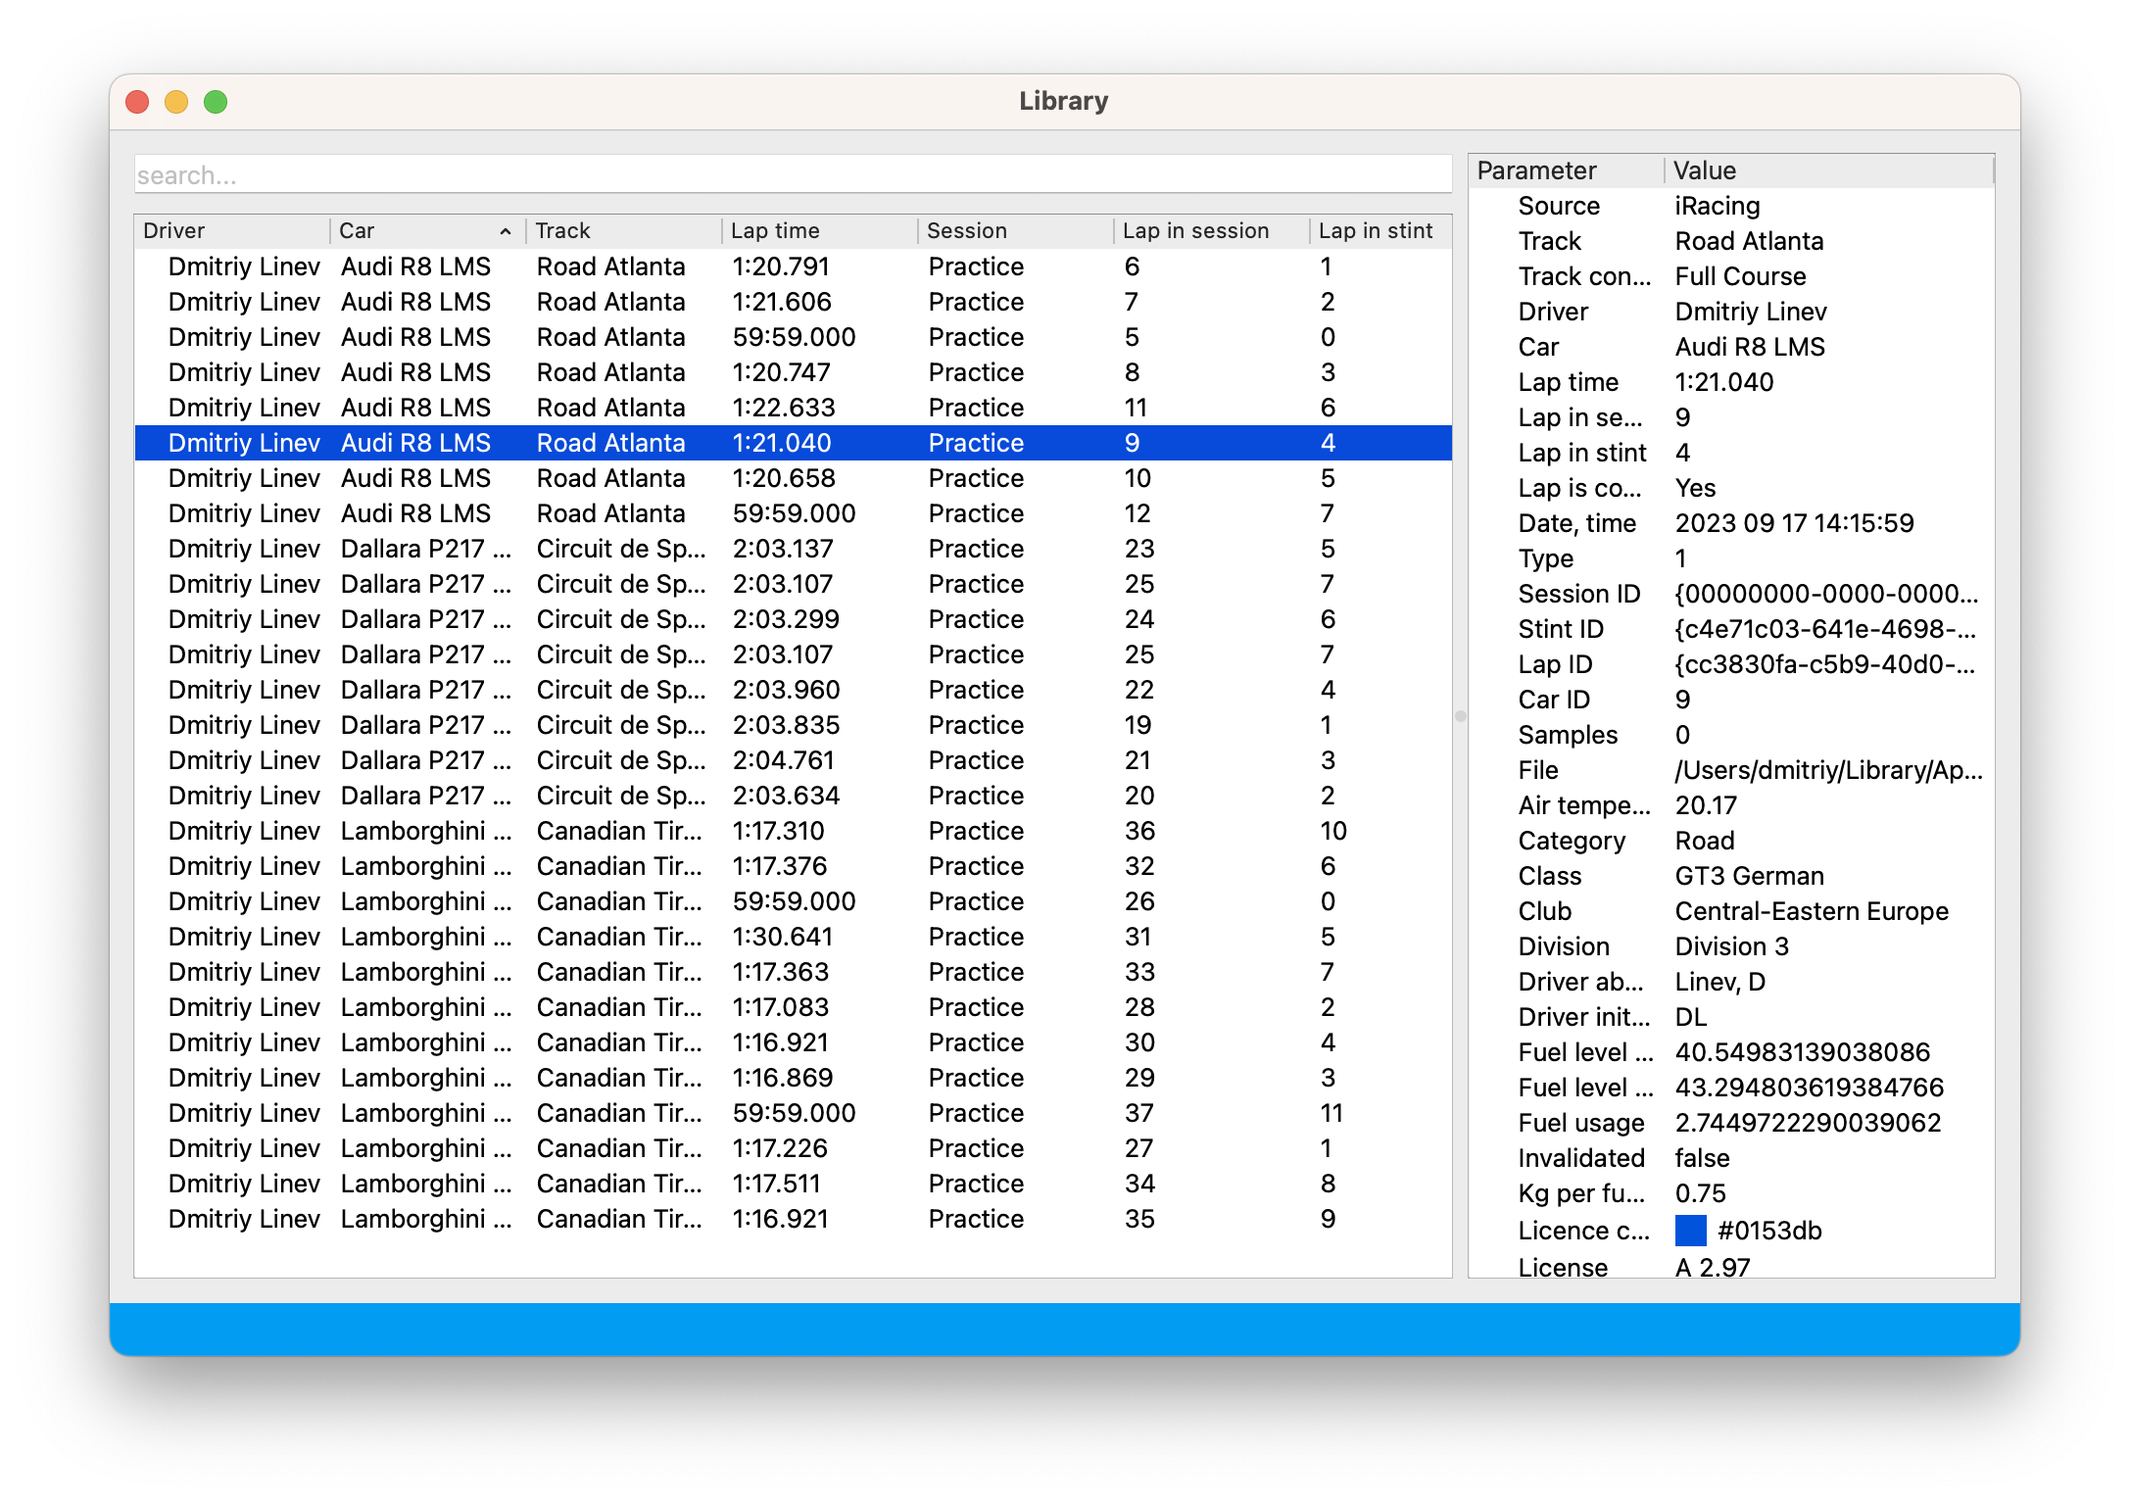
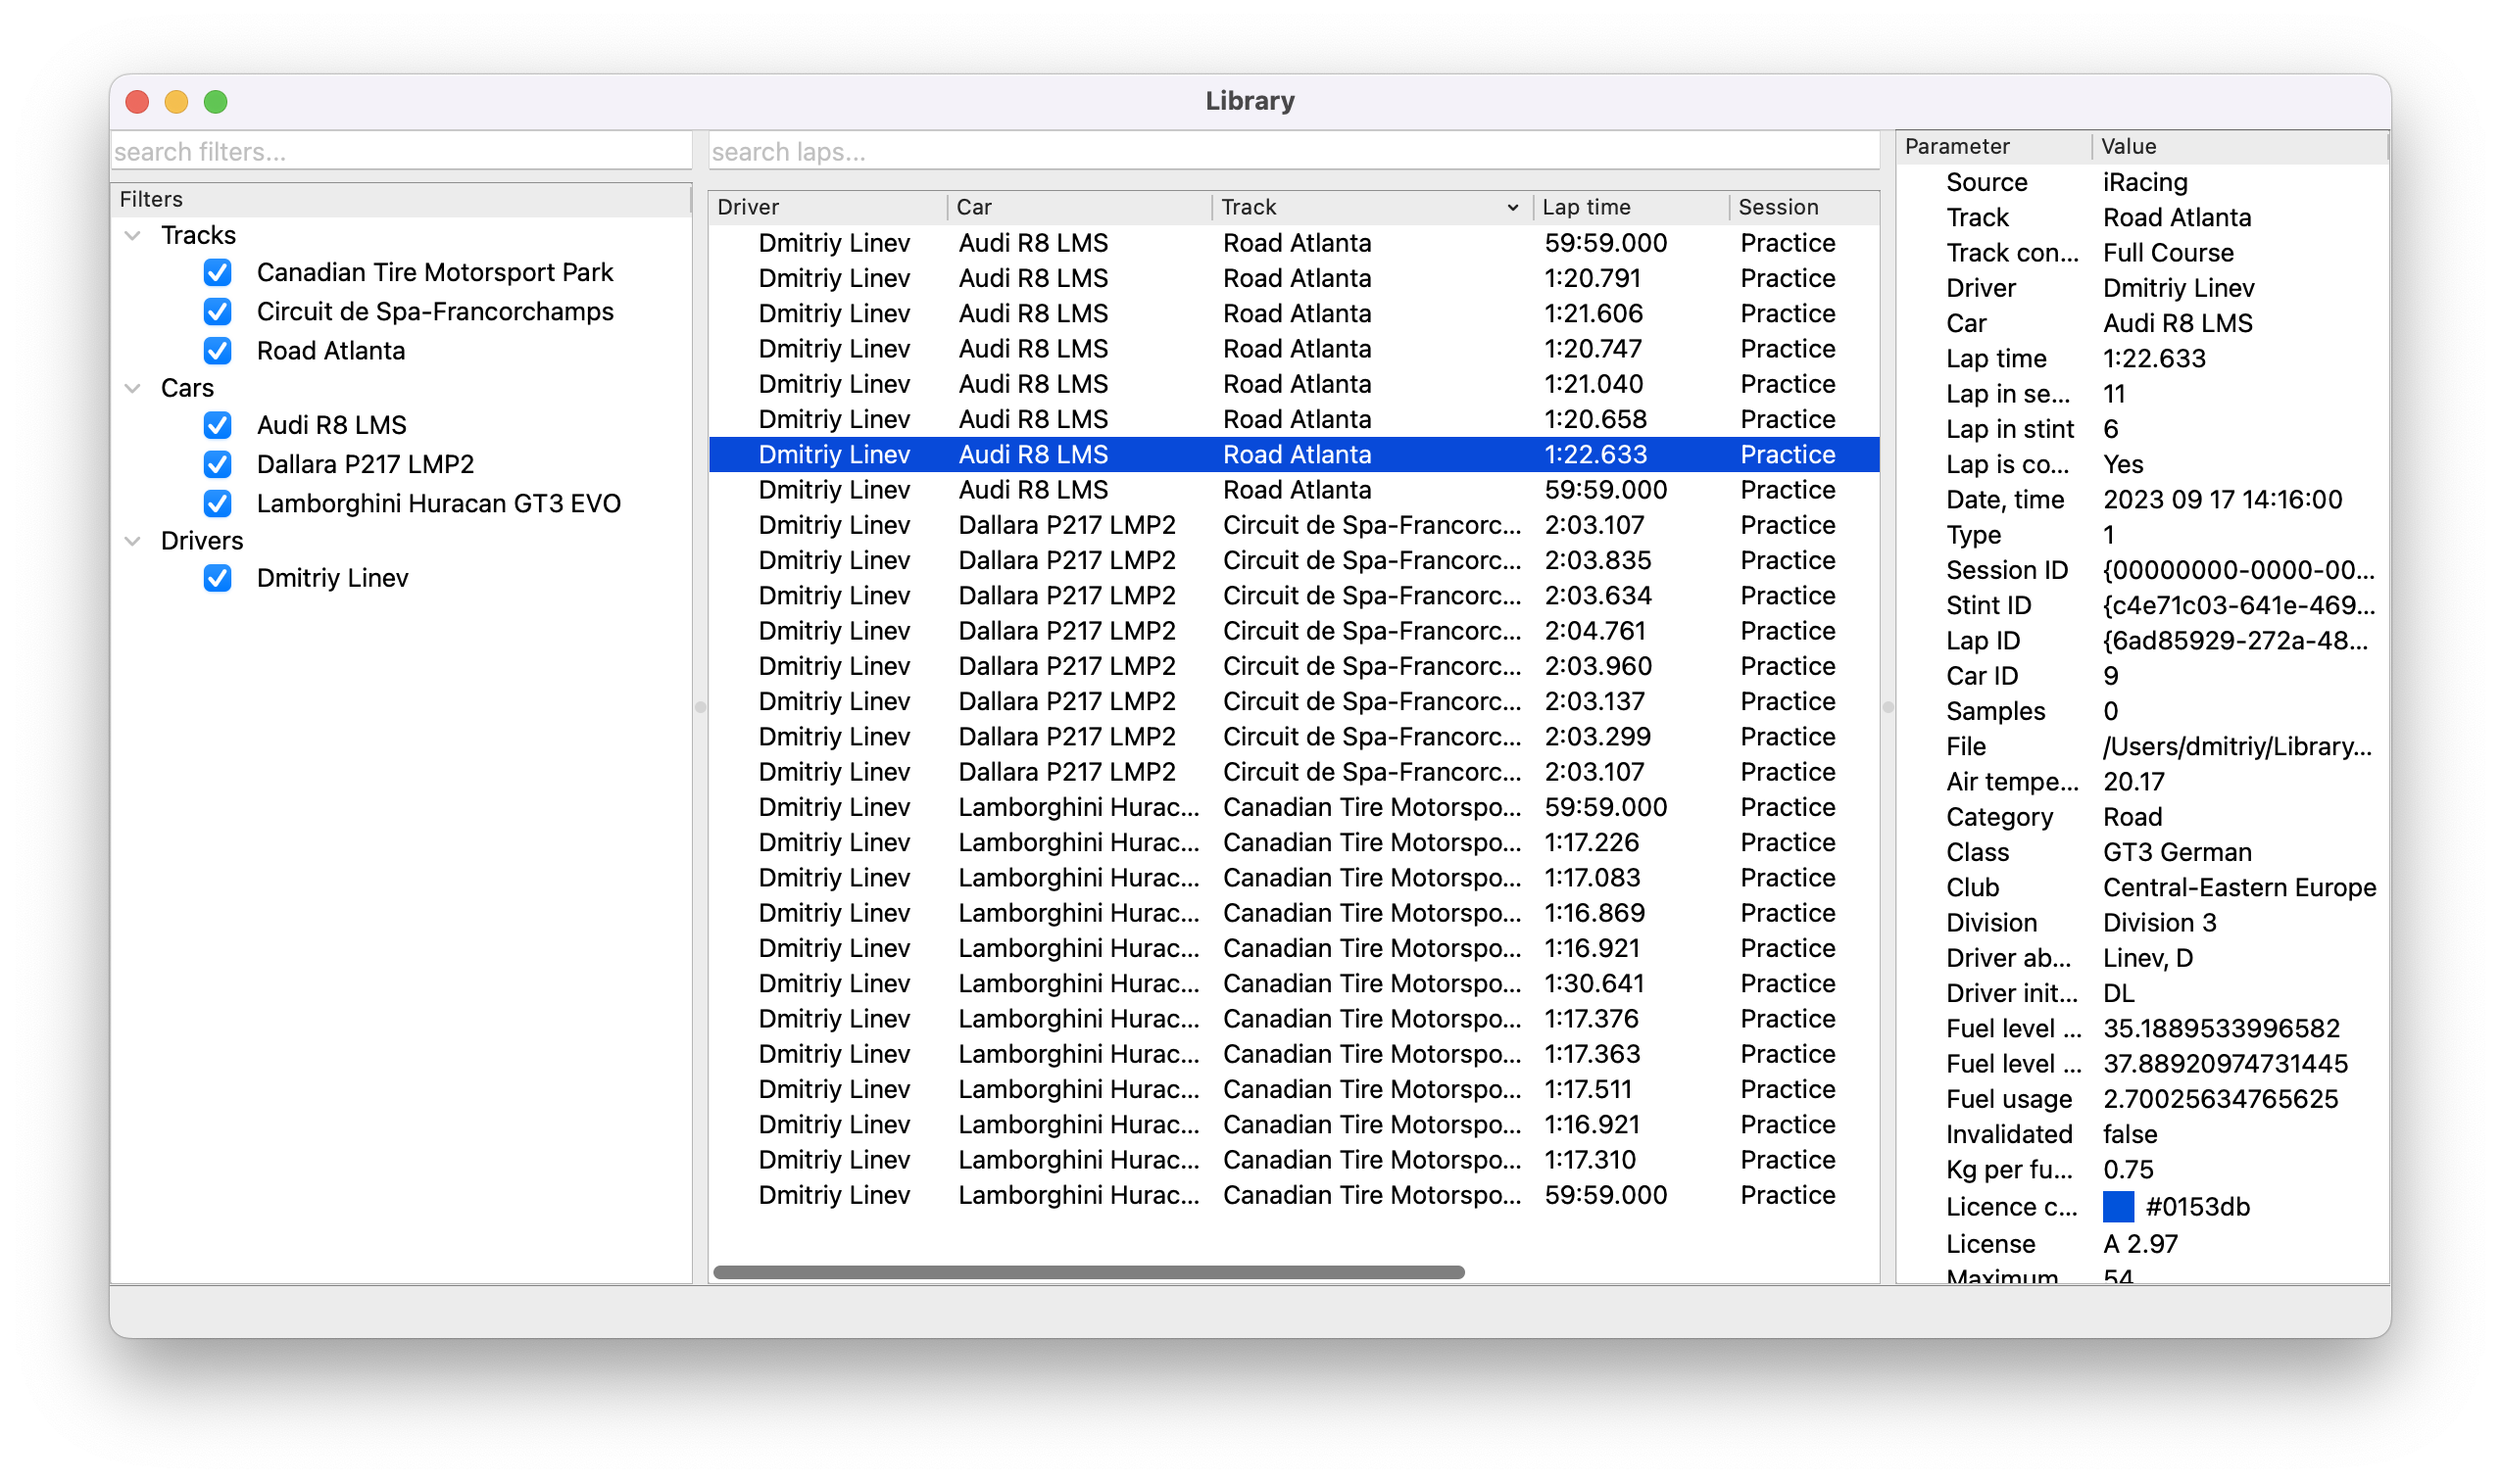
Update local lap library filtering info

Changed region(s): [[0.0308, 0.0621, 0.9554, 0.9313], [0.4623, 0.0621, 0.5239, 0.0931]]

diff --git a/docs/analyzer/laplibrary.md b/docs/analyzer/laplibrary.md
@@ -4,14 +4,20 @@ Lap library is a convenient way to organize your telemetry and quickly find laps
 
 ![Lap library window](img/analyzer_lap_library_src.png "Lap library window")
 
-Filter laps using "search" field in the top of the Library window. 
+To the left you can see all tracks, cars and drivers that are available in your local lap library. Uncheck any item in 
+this tree to hide laps you are not interested in now. This doesn't remove them from library, just hides for your convenience.
 
-![Lap library filter](img/analyzer_lap_library_filter_src.png "Lap library filter")
+![Lap library filters](img/analyzer_lap_library_filters_src.png "Lap library filters")
 
-As users type their query into the filter field, the table dynamically updates to display only the 
-rows that match the query. Rows that do not contain all the specified words in the query are hidden from view.
-When users enter a query, the filter treats the words within the query as logical "AND" operators. 
-This means that in order for a row to be displayed, it must contain all the words from the query.
+You can also filter laps using "search" field in the top of the Library window. 
+
+![Lap library search](img/analyzer_lap_library_search_src.png "Lap library search")
+
+You can type your query into the filter field to dynamically update the table and display only the rows that match the 
+query. Rows that do not contain all the specified words in the query will be hidden from view. The filter treats the words 
+within the query as logical "AND" operators, so a row must contain all the words from the query to be shown.
+
+You can combine both ways of filtering out laps to quickly find laps you want to select for analysis.
 
 ## Loading laps for analysis
 
